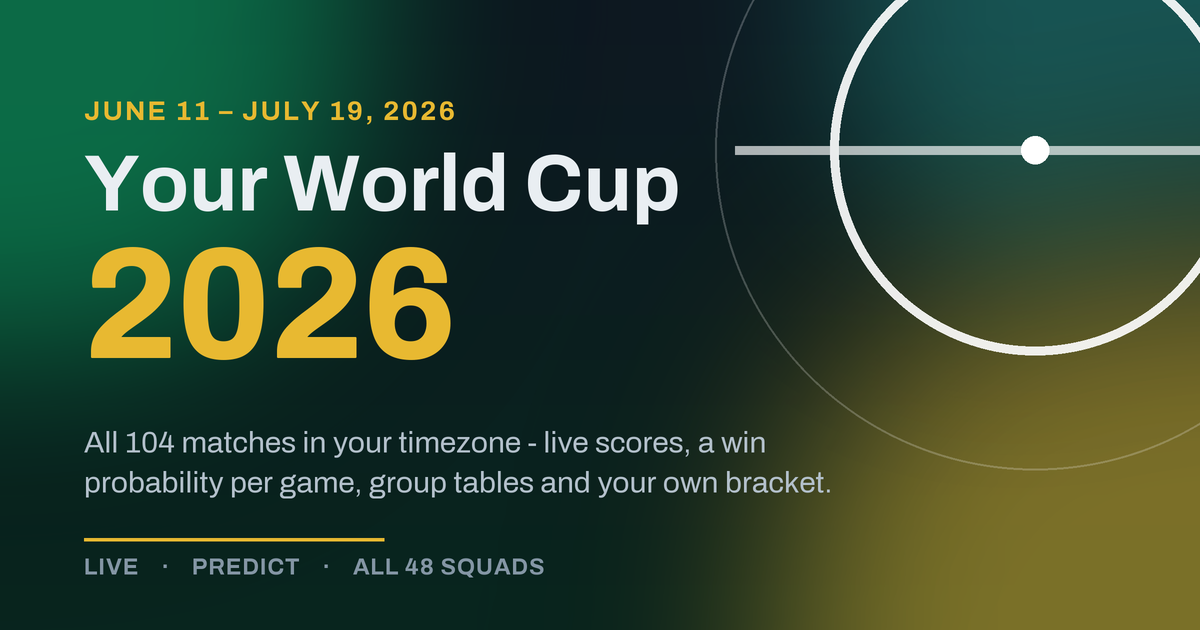
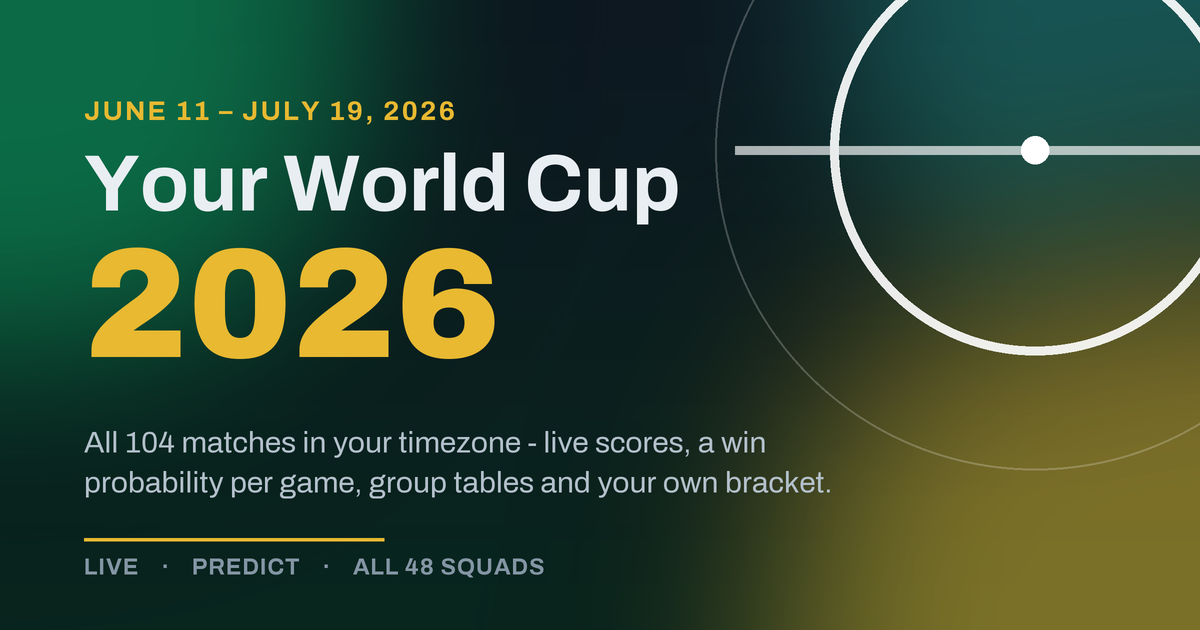
OG image: real heavy Archivo 900 for '2026', drop the faux-bold stroke
Batch E. The big '2026' numeral faked weight with stroke_width (the exact faux-
bold the app removed elsewhere). Load the variable Archivo (archivo-3.woff2, the
Latin subset with digits) at weight 900 via the Weight axis and render it as a
real heavy weight - no stroke. Bump og ?v=149->150 so social scrapers refetch.

Note: the per-match share cards (make-share-cards.mjs) are intentionally single-
family (Archivo display only) - they render no body/mono text, so there are no
Instrument Sans / Spline Sans Mono to add. That part of the audit item is moot.

Changed region(s): [[0.0925, 0.3921, 0.4317, 0.573]]

diff --git a/index.html b/index.html
@@ -10,14 +10,14 @@
 <meta property="og:url" content="https://lavyagarg240294.github.io/wc26/">
 <meta property="og:title" content="FIFA World Cup 2026 - every match in your timezone">
 <meta property="og:description" content="All 104 matches in your timezone: live scores, lineups & stats, a win probability for every game, group tables, the live Round of 32, all 48 squads, and your own knockout predictions. Free, no sign-up.">
-<meta property="og:image" content="https://lavyagarg240294.github.io/wc26/assets/og.png?v=149">
+<meta property="og:image" content="https://lavyagarg240294.github.io/wc26/assets/og.png?v=150">
 <meta property="og:image:width" content="1200">
 <meta property="og:image:height" content="630">
 <meta property="og:image:alt" content="Your World Cup 2026 - all 104 matches in your timezone, with live scores, a win probability for every game, and your own knockout predictions">
 <meta name="twitter:card" content="summary_large_image">
 <meta name="twitter:title" content="FIFA World Cup 2026 - every match in your timezone">
 <meta name="twitter:description" content="All 104 matches in your timezone: live scores, lineups & stats, a win probability for every game, group tables, the live Round of 32, all 48 squads, and your own knockout predictions. Free, no sign-up.">
-<meta name="twitter:image" content="https://lavyagarg240294.github.io/wc26/assets/og.png?v=149">
+<meta name="twitter:image" content="https://lavyagarg240294.github.io/wc26/assets/og.png?v=150">
 <meta name="theme-color" content="#FAFBF9">
 <script>try{var _dk=localStorage.getItem('wc26.theme'),_th=(_dk==='dark'||(!_dk&&matchMedia('(prefers-color-scheme:dark)').matches))?'dark':'light';document.documentElement.dataset.theme=_th;var m=document.querySelector('meta[name=theme-color]');if(m)m.content=_th==='dark'?'#0E1822':'#0BA360';}catch(e){}try{document.documentElement.classList.add('booting');setTimeout(function(){document.documentElement.classList.remove('booting');},1600);}catch(e){}</script>
 <!-- Privacy-friendly, cookieless analytics (GoatCounter) - OFF by default (no third-party request, no tracking).

diff --git a/scripts/make-og.py b/scripts/make-og.py
@@ -8,8 +8,11 @@ S = 2                                  # supersample: render 2x, downscale = sha
 W, H = 1200 * S, 630 * S
 AB = "assets/fonts/archivo-700.woff"   # the site's display weight (woff loads in Pillow's FreeType)
 AR = "assets/fonts/archivo-400.woff"
+AV = "assets/fonts/archivo-3.woff2"    # variable Archivo (Weight 400-900), the Latin subset (U+0000-00FF) that has the digits - a REAL heavy weight for the big numeral, so no faux-bold stroke
 fb = lambda s: ImageFont.truetype(AB, int(s * S))
 fr = lambda s: ImageFont.truetype(AR, int(s * S))
+def fh(s):                             # heavy display weight (900) via the variable axis - matches the app's no-faux-bold rule
+    fo = ImageFont.truetype(AV, int(s * S)); fo.set_variation_by_axes([900, 100]); return fo   # [Weight, Width]
 def T(v): return int(v * S)
 
 GOLD = (232, 185, 49)
@@ -55,7 +58,7 @@ d = ImageDraw.Draw(img)
 x = T(84)
 tracked(d, (x, T(96)), "JUNE 11 – JULY 19, 2026", fb(27), GOLD, 2.2)
 d.text((x, T(140)), "Your World Cup", font=fb(80), fill=(233, 238, 242))
-d.text((x, T(220)), "2026", font=fb(156), fill=GOLD, stroke_width=T(1.4), stroke_fill=GOLD)
+d.text((x, T(220)), "2026", font=fh(156), fill=GOLD)
 tag = fr(30)
 d.text((x, T(426)), "All 104 matches in your timezone - live scores, a win", font=tag, fill=(179, 192, 203))
 d.text((x, T(466)), "probability per game, group tables and your own bracket.", font=tag, fill=(179, 192, 203))
